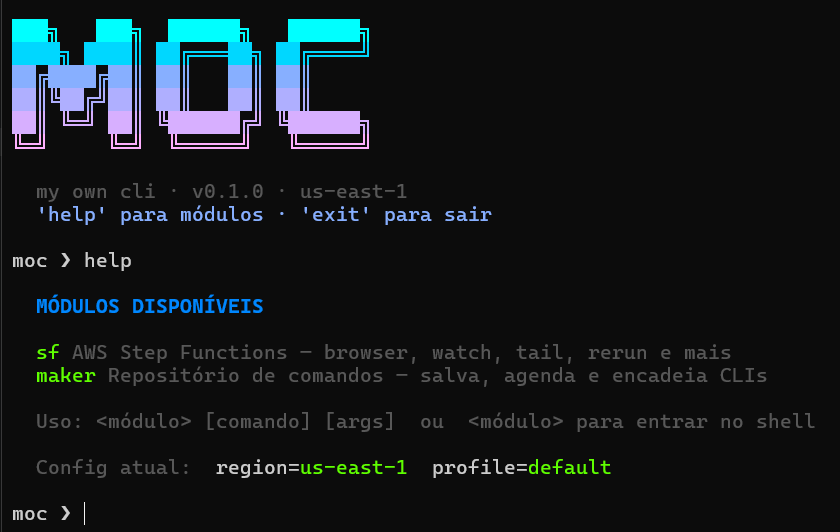
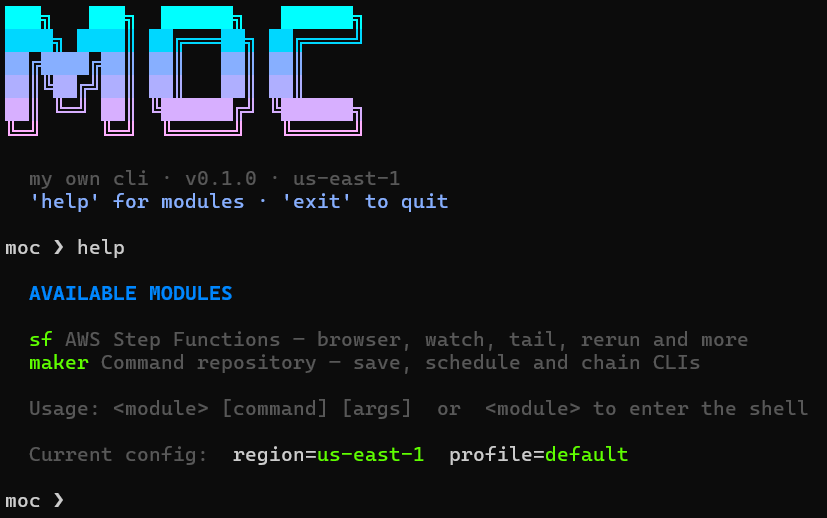
docs: refresh screenshots to English and add sf loading state
Replaces the Portuguese-text captures of the main shell and the sf
list view with English equivalents matching the i18n change. Adds a
new MOC SF LOADING capture showing the spinner state.

diff --git a/README.md b/README.md
@@ -34,6 +34,10 @@ It runs as a one-shot command (`moc sf list`) **or** as an interactive shell
 |---|---|
 | ![maker mode](docs/screenshots/MOC%202.png) | ![sf list](docs/screenshots/MOC%20SF%20LS.png) |
 
+| Step Functions — loading |
+|---|
+| ![sf loading](docs/screenshots/MOC%20SF%20LOADING.png) |
+
 ## Install
 
 Requires Go 1.24+.